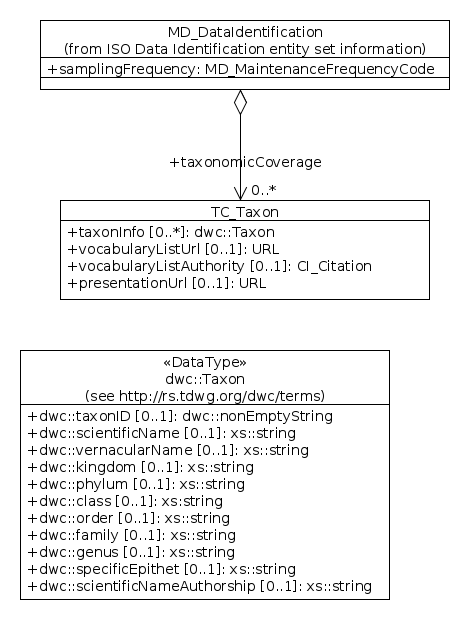
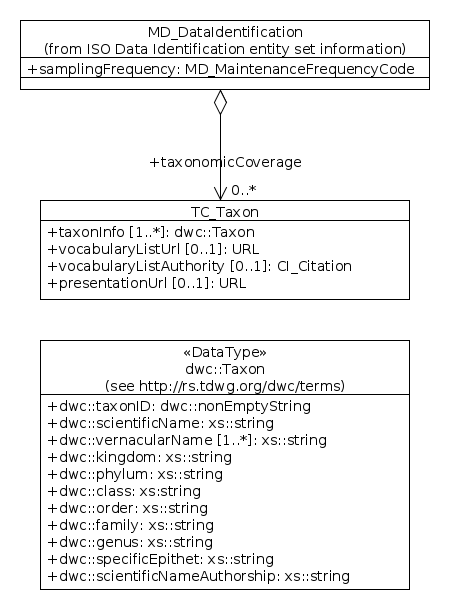
Update descriptions of mcp:vocabularyListUrl and mcp:presentationLink to reflect possibility of multiple mcp:taxonInfo from a vocabulary Update examples to include multiple mcp:taxonInfo Update UML and data dictionary to reflect changes

Changed region(s): [[0.0311, 0.5607, 0.84, 0.9967], [0.0311, 0.0311, 0.9644, 0.4984]]

diff --git a/source/extensions/taxonomicCoverage/index.rst b/source/extensions/taxonomicCoverage/index.rst
@@ -215,9 +215,9 @@ No.  Name/Role Name               Definition                                    
 ===  ===========================  ====================================================================================  ========================  ===============  ==================================  ===============================
 972  TC_Taxon                     Container for description of taxonomic data                                           Note 1                    Note 2           Aggregated Class                    Lines 973-976                    
 973  taxonInfo                    Taxonomic Information                                                                 M                         N                Class                               dwc::Taxon  
-974  vocabularyListUrl            URL of vocabulary service providing Taxonomic information                             O                         1                Class                               URL                
+974  vocabularyListUrl            URL of vocabulary service or taxonomic ID resolver for resolving dwc::taxonID         O                         1                Class                               URL                
 975  vocabularyListAuthority      Citation of vocabulary service providing Taxonomic Information                        O                         1                Class                               CI_Citation        
-976  presentationUrl              URL of HTML presentation of Taxonomic Information                                     O                         1                Class                               URL                
+976  presentationUrl              URL of HTML presentation of dwc::taxonID                                              O                         1                Class                               URL                
 ===  ===========================  ====================================================================================  ========================  ===============  ==================================  ===============================
 
 .. include:: ../common_notes.rst
@@ -239,17 +239,17 @@ No.  Name/Role Name               Definition                                    
 No.  Name                            Definition                                                                                                                                                                                                                                                                                                  Oblig.   Max Occ  Data Type                           Domain
 ===  ==============================  ==========================================================================================================================================================================================================================================================================================================  =======  =======  ==================================  ===============================
 980  dwc::Taxon                      Darwin Core Container for Taxonomic Information                                                                                                                                                                                                                                                             Note 1   Note 2   <<DataType>>                        981-991                        
-981  dwc::taxonID                    An identifier for the set of taxon information (data associated with the Taxon class). May be a global unique identifier or an identifier specific to the data set. Examples: "8fa58e08-08de-4ac1-b69c-1235340b7001", "32567", "http://species.gbif.org/abies_alba_1753", "urn:lsid:gbif.org:usages:32567"  O        1        dwc::nonEmptyString                 URI
-982  dwc::scientificName             The full scientific name, with authorship and date information if known. When forming part of an Identification, this should be the name in lowest level taxonomic rank that can be determined. Examples: Coleoptera" (order),  "Ctenomys sociabilis" (genus + specificEpithet)                             0        1        xs::string                          FreeText
-983  dwc::vernacularName             A common or vernacular name. Example: "Andean Condor", "Condor Andino", "American Eagle", "Gänsegeier"                                                                                                                                                                                                      0        1        xs::string                          FreeText
-984  dwc::kingdom                    The full scientific name of the kingdom in which the taxon is classified. Example: "Animalia", "Plantae"                                                                                                                                                                                                    0        1        xs::string                          FreeText
-985  dwc::phylum                     The full scientific name of the phylum or division in which the taxon is classified. Example: "Chordata" (phylum), "Bryophyta" (division)                                                                                                                                                                   0        1        xs::string                          FreeText
-986  dwc::class                      The full scientific name of the class in which the taxon is classified. Example: "Mammalia", "Hepaticopsida".                                                                                                                                                                                               0        1        xs::string                          FreeText
-987  dwc::order                      The full scientific name of the order in which the taxon is classified. Example: "Carnivora", "Monocleales"                                                                                                                                                                                                 0        1        xs::string                          FreeText
-988  dwc::family                     The full scientific name of the family in which the taxon is classified. Example: "Felidae", "Monocleaceae"                                                                                                                                                                                                 0        1        xs::string                          FreeText
-989  dwc::genus                      The full scientific name of the genus in which the taxon is classified. Example: "Puma", "Monoclea"                                                                                                                                                                                                         0        1        xs::string                          FreeText
-990  dwc::specificEpithet            The name of the first or species epithet of the scientificName. Example: "concolor", "oxyadenia", "sayi".                                                                                                                                                                                                   0        1        xs::string                          FreeText
-991  dwc::scientificNameAuthorship   The authorship information for the scientificName. Example: Linnaeus, 1758                                                                                                                                                                                                                                  0        1        xs::string                          FreeText
+981  dwc::taxonID                    An identifier for the set of taxon information (data associated with the Taxon class). May be a global unique identifier or an identifier specific to the data set. Examples: "8fa58e08-08de-4ac1-b69c-1235340b7001", "32567", "http://species.gbif.org/abies_alba_1753", "urn:lsid:gbif.org:usages:32567"  M        1        dwc::nonEmptyString                 URI
+982  dwc::scientificName             The full scientific name, with authorship and date information if known. When forming part of an Identification, this should be the name in lowest level taxonomic rank that can be determined. Examples: Coleoptera" (order),  "Ctenomys sociabilis" (genus + specificEpithet)                             M        1        xs::string                          FreeText
+983  dwc::vernacularName             A common or vernacular name. Example: "Andean Condor", "Condor Andino", "American Eagle", "Gänsegeier"                                                                                                                                                                                                      M        N        xs::string                          FreeText
+984  dwc::kingdom                    The full scientific name of the kingdom in which the taxon is classified. Example: "Animalia", "Plantae"                                                                                                                                                                                                    M        1        xs::string                          FreeText
+985  dwc::phylum                     The full scientific name of the phylum or division in which the taxon is classified. Example: "Chordata" (phylum), "Bryophyta" (division)                                                                                                                                                                   M        1        xs::string                          FreeText
+986  dwc::class                      The full scientific name of the class in which the taxon is classified. Example: "Mammalia", "Hepaticopsida".                                                                                                                                                                                               M        1        xs::string                          FreeText
+987  dwc::order                      The full scientific name of the order in which the taxon is classified. Example: "Carnivora", "Monocleales"                                                                                                                                                                                                 M        1        xs::string                          FreeText
+988  dwc::family                     The full scientific name of the family in which the taxon is classified. Example: "Felidae", "Monocleaceae"                                                                                                                                                                                                 M        1        xs::string                          FreeText
+989  dwc::genus                      The full scientific name of the genus in which the taxon is classified. Example: "Puma", "Monoclea"                                                                                                                                                                                                         M        1        xs::string                          FreeText
+990  dwc::specificEpithet            The name of the first or species epithet of the scientificName. Example: "concolor", "oxyadenia", "sayi".                                                                                                                                                                                                   M        1        xs::string                          FreeText
+991  dwc::scientificNameAuthorship   The authorship information for the scientificName. Example: Linnaeus, 1758                                                                                                                                                                                                                                  M        N        xs::string                          FreeText
 ===  ==============================  ==========================================================================================================================================================================================================================================================================================================  =======  =======  ==================================  ===============================
 
 .. include:: ../common_notes.rst
@@ -281,11 +281,42 @@ Example 1 - embedded DwC
          <dwc:scientificNameAuthorship>Linnaeus, 1758</dwc:scientificNameAuthorship>
        </dwc:Taxon>
      </mcp:taxonInfo>
+     <mcp:taxonInfo>
+       <dwc:Taxon xmlns:dwc="http://rs.tdwg.org/dwc/terms/>
+         <dwc:taxonID>urn:lsid:biodiversity.org.au:afd.taxon:ba90a132-1584-4ec9-8d1c-07c29f6b4895</dwc:taxonID>
+         <dwc:scientificName>Hyperoglyphe antarctica (Carmichael, 1818)</dwc:scientificName>
+         <dwc:vernacularName>Deep-sea Trevalla</dwc:vernacularName>
+         <dwc:vernacularName>Blue-eye</dwc:vernacularName>
+         <dwc:vernacularName>Blue-eye Cod</dwc:vernacularName>
+         <dwc:vernacularName>Blue-nose</dwc:vernacularName>
+         <dwc:vernacularName>Big-eye Trevalla</dwc:vernacularName>
+         <dwc:vernacularName>Griffin's Silverfish</dwc:vernacularName>
+         <dwc:vernacularName>Stoney-eye</dwc:vernacularName>
+         <dwc:vernacularName>Bream Trevalla</dwc:vernacularName>
+         <dwc:vernacularName>Deepsea Trevalla</dwc:vernacularName>
+         <dwc:vernacularName>Blue Eye</dwc:vernacularName>
+         <dwc:vernacularName>Trevalla</dwc:vernacularName>
+         <dwc:vernacularName>Deep Sea Trevalla</dwc:vernacularName>
+         <dwc:vernacularName>Sea Trevally</dwc:vernacularName>
+         <dwc:vernacularName>Big Eye</dwc:vernacularName>
+         <dwc:vernacularName>Bluenose</dwc:vernacularName>
+         <dwc:vernacularName>Bluenose Warehou</dwc:vernacularName>
+         <dwc:vernacularName>Blue-eye Trevalla</dwc:vernacularName>
+         <dwc:kingdom>Animalia</dwc:kingdom>
+         <dwc:phylum>Chordata</dwc:phylum>
+         <dwc:class>Actinopterygii</dwc:class>
+         <dwc:order>Perciformes</dwc:order>
+         <dwc:family>Centrolophidae</dwc:family>
+         <dwc:genus>Hyperoglyphe</dwc:genus>
+         <dwc:specificEpithet>antarctica</dwc:specificEpithet>
+         <dwc:scientificNameAuthorship>Carmichael, 1818</dwc:scientificNameAuthorship>
+       </dwc:Taxon>
+     </mcp:taxonInfo>
      <mcp:vocabularyListUrl>
-       <gmd:URL>http://biodiversity.org.au/taxon/Physeter%20macrocephalus.xml</gmd:URL>
+       <gmd:URL>http://biodiversity.org.au/taxon/<taxonID>.xml</gmd:URL>
      </mcp:vocabularyListUrl>
      <mcp:presentationUrl>
-       <gmd:URL>http://biodiversity.org.au/taxon/Physeter%20macrocephalus.html</gmd:URL>
+       <gmd:URL>http://biodiversity.org.au/taxon/<taxonID>.html</gmd:URL>
      </mcp:presentationUrl>
    </mcp:TC_Taxon>
  </mcp:taxonomicCoverage>
@@ -298,12 +329,13 @@ Example 2 - XLink'd DwC from an external vocabulary resolver service
 
  <mcp:taxonomicCoverage>
    <mcp:TC_Taxon>
-     <mcp:taxonInfo xlink:href="http://taxonresolver.aodn.org.au/taxonresolver?id=urn:lsid:biodiversity.org.au:afd.taxon:e2705e7a-a83c-4d04-87d3-b793e79671d7&origUrl=http://biodiversity.org.au/taxon/Physeter%20macrocephalus.xml"/>
+     <mcp:taxonInfo xlink:href="http://taxonresolver.aodn.org.au/taxonresolver?id=urn:lsid:biodiversity.org.au:afd.taxon:e2705e7a-a83c-4d04-87d3-b793e79671d7&origUrl=http://biodiversity.org.au/afd.taxon/e2705e7a-a83c-4d04-87d3-b793e79671d7.xml"/>
+     <mcp:taxonInfo xlink:href="http://taxonresolver.aodn.org.au/taxonresolver?id=urn:lsid:biodiversity.org.au:afd.taxon:ba90a132-1584-4ec9-8d1c-07c29f6b4895&origUrl=http://biodiversity.org.au/afd.taxon/ba90a132-1584-4ec9-8d1c-07c29f6b4895.xml"/>
      <mcp:vocabularyListUrl>
-       <gmd:URL>http://biodiversity.org.au/taxon/Physeter%20macrocephalus.xml</gmd:URL>
+       <gmd:URL>http://biodiversity.org.au/afd.taxon/<taxonID>.xml</gmd:URL>
      </mcp:vocabularyListUrl>
      <mcp:presentationUrl>
-       <gmd:URL>http://biodiversity.org.au/taxon/Physeter%20macrocephalus.html</gmd:URL>
+       <gmd:URL>http://biodiversity.org.au/afd.taxon/<taxonID>.html</gmd:URL>
      </mcp:presentationUrl>
    </mcp:TC_Taxon>
  </mcp:taxonomicCoverage>
